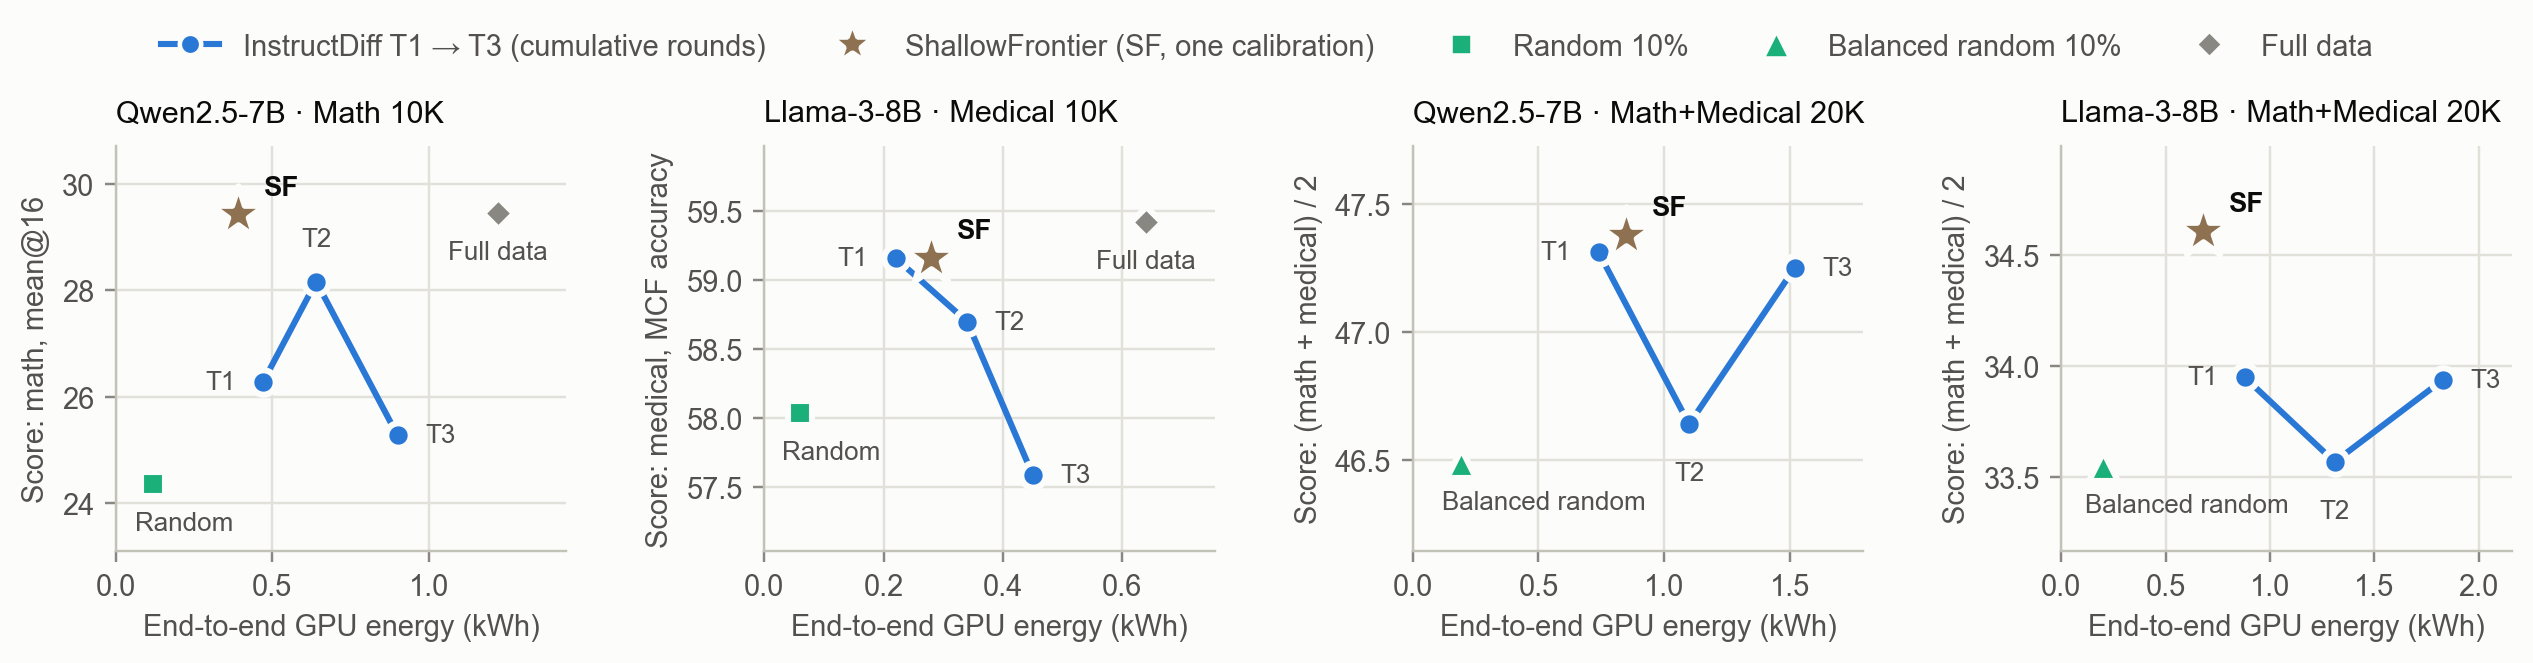
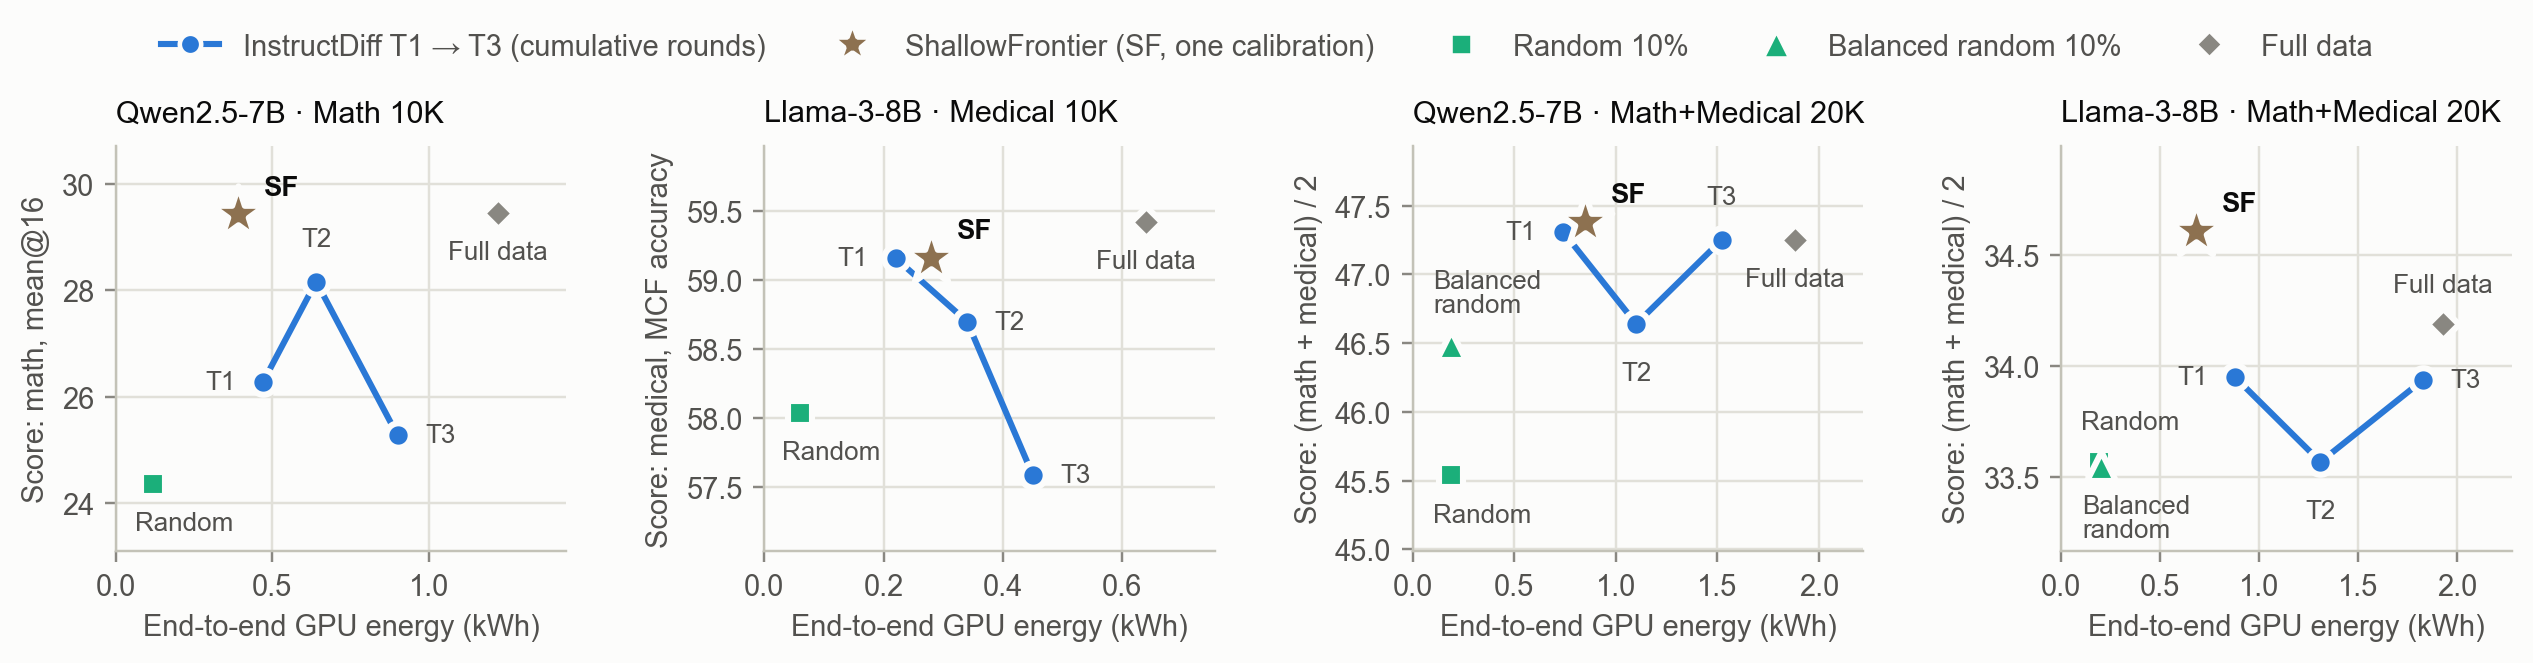
Add full-data and random baselines, 3-seed means
- results/seed42.json: full-data training and uniform random 10% on both mixed pools
- README (EN/KO): those cells and per-benchmark rows, 3-seed means ± std, energy against full-data training
- Figures: full-data and random points in the mixed panels; stage-3 gauge box centred on the flow line

diff --git a/scripts/make_figures.py b/scripts/make_figures.py
@@ -48,11 +48,18 @@ def energy_vs_score(res, out, size=(11.6, 2.9), dpi=220, star=340):   # sized so
         m = tb["methods"]
         rounds = [m["instructdiff_t%d" % r] for r in (1, 2, 3)]
         xs, ys = [r["kwh"] for r in rounds], [r["score"] for r in rounds]
+        full = m.get("full", {}) if m.get("full", {}).get("score") is not None else None
+        shown = ys + [v["score"] for k, v in m.items() if k != "base" and v.get("score") is not None]
+        yr = max(shown) - min(shown)
+        near = full is not None and 0 < full["kwh"] - xs[2] < 0.3 * full["kwh"] and abs(full["score"] - ys[2]) < 0.4 * yr  # full data beside T3
+        level = near and abs(full["score"] - ys[2]) < 0.08 * yr   # ... and at T3's height: T3's label above, full data's below
         ax.plot(xs, ys, color=C_ID, lw=2, solid_capstyle="round", solid_joinstyle="round", zorder=2)
         for r, (x, y) in enumerate(zip(xs, ys), 1):
             _point(ax, x, y, C_ID, "o", 64)
             if r == 1:                                            # labels sit on the side the line does not use
                 at = dict(xytext=(-9, 0), ha="right", va="center")
+            elif r == 3 and level:
+                at = dict(xytext=(0, 10), ha="center", va="bottom")
             elif r == 3:
                 at = dict(xytext=(9, 0), ha="left", va="center")
             elif y > max(ys[0], ys[2]):                           # peak: both lines go down, so the label goes above
@@ -63,15 +70,26 @@ def energy_vs_score(res, out, size=(11.6, 2.9), dpi=220, star=340):   # sized so
                 at = dict(xytext=(9, 0), ha="left", va="center")
             ax.annotate("T%d" % r, (x, y), textcoords="offset points", fontsize=8.5, color=INK2, **at)
         pts = [(x, y) for x, y in zip(xs, ys)]
+        rr = [k for k in ("random", "balanced_random") if m.get(k, {}).get("score") is not None]
         for rk, marker, text, size in (("random", "s", "Random", 60), ("balanced_random", "^", "Balanced random", 90)):
-            if m.get(rk, {}).get("score") is not None:
-                _point(ax, m[rk]["kwh"], m[rk]["score"], C_RAND, marker, size)
-                _label(ax, text, m[rk]["kwh"], m[rk]["score"], ha="left", dx=-6)
-                pts.append((m[rk]["kwh"], m[rk]["score"]))
-        if m.get("full", {}).get("score") is not None:
-            _point(ax, m["full"]["kwh"], m["full"]["score"], C_FULL, "D", 52)
-            _label(ax, "Full data", m["full"]["kwh"], m["full"]["score"])
-            pts.append((m["full"]["kwh"], m["full"]["score"]))
+            if rk in rr:
+                x, y = m[rk]["kwh"], m[rk]["score"]
+                _point(ax, x, y, C_RAND, marker, size)
+                if len(rr) == 2:                        # mixed pools show both randoms, often at one spot: the higher one's
+                    up = y >= m[rr[1 - rr.index(rk)]]["score"]   # label above, the lower one's below, in short lines
+                    ax.annotate(text.replace(" ", "\n"), (x, y), xytext=(-6, 9 if up else -9), textcoords="offset points", ha="left",
+                                va="bottom" if up else "top", fontsize=8.5, color=INK2, linespacing=1.0)
+                else:
+                    _label(ax, text, x, y, ha="left", dx=-6)
+                pts.append((x, y))
+        if full is not None:
+            _point(ax, full["kwh"], full["score"], C_FULL, "D", 52)
+            if near and not level:                                # beside T3, higher or lower: the label goes above, clear of T3's label
+                ax.annotate("Full data", (full["kwh"], full["score"]), xytext=(0, 9), textcoords="offset points", ha="center", va="bottom",
+                            fontsize=8.5, color=INK2)
+            else:
+                _label(ax, "Full data", full["kwh"], full["score"])
+            pts.append((full["kwh"], full["score"]))
         pd = m["shallowfrontier"]
         _point(ax, pd["kwh"], pd["score"], C_PD, "*", star, z=4)
         ax.annotate("SF", (pd["kwh"], pd["score"]), xytext=(0.46 * star ** 0.5, 0.35 * star ** 0.5), textcoords="offset points", fontsize=9, color=INK, fontweight="bold")

diff --git a/README.md b/README.md
@@ -30,8 +30,8 @@
 
 ## News
 
-- **2026-11-11** · Code, testbed configurations and seed-42 results released.
-  Next: 3-seed means ± std for every testbed, and the full-data and random rows of the mixed pools.
+- **2026-11-11** · Code, testbed configurations and results released: seed-42 tables with full-data and random baselines, and 3-seed
+  means ± std for every testbed.
 
 ## Overview
 
@@ -96,6 +96,8 @@ group, and a short calibration run predicts what the full fine-tune needs.
 
 - **53% less end-to-end GPU energy than InstructDiff** (selection + final fine-tuning, measured with NVML, mean of four testbeds:
   0.55 vs 1.17 kWh). InstructDiff's best round is only known after all three rounds, so its cost is the cost of three rounds.
+- **61% less energy than full-data training** (0.55 vs 1.42 kWh), within 0.3 points of it on the single-domain pools and above it on
+  the mixed pools (seed 42).
 - **Label-free and answer-free.** Base-model hidden states of the prompts give the groups; mixed math + medical pools split into
   groups that are 97–99% pure without any domain tag.
 - **Measured, not tuned.** The routing threshold (*B/b = 1*), the silhouette floor (0.25) and the stopping rule come from theory or
@@ -108,8 +110,7 @@ group, and a short calibration run predicts what the full fine-tune needs.
 ## Results
 
 > [!NOTE]
-> Seed 42, the same seed for every method and testbed. 3-seed means ± std and the remaining rows will be added here and in
-> [`results/`](results/) once the runs finish.
+> Main tables: seed 42 for every method and testbed; 3-seed means ± std (seeds 42–44) are below.
 
 Score = math mean@16 for math, multiple-choice (MCF) accuracy for medical, and their mean for mixed pools; E2E kWh = measured GPU
 energy of selection + final fine-tuning. **Bold**: best 10% selection.
@@ -117,8 +118,8 @@ energy of selection + final fine-tuning. **Bold**: best 10% selection.
 | Method | Qwen2.5-7B · Math 10K | kWh | Llama-3-8B · Medical 10K | kWh | Qwen2.5-7B · Mixed 20K | kWh | Llama-3-8B · Mixed 20K | kWh |
 |---|---:|---:|---:|---:|---:|---:|---:|---:|
 | Base model | 12.06 | – | 62.22 | – | 39.15 | – | 32.21 | – |
-| Full data | 29.44 | 1.22 | 59.42 | 0.64 | *pending* | – | *pending* | 1.93 |
-| Random 10% | 24.36 | 0.12 | 58.04 | 0.06 | *pending* | – | *pending* | – |
+| Full data | 29.44 | 1.22 | 59.42 | 0.64 | 47.25 | 1.88 | 34.19 | 1.93 |
+| Random 10% | 24.36 | 0.12 | 58.04 | 0.06 | 45.54 | 0.19 | 33.57 | 0.19 |
 | Balanced random 10% (half per domain) | – | – | – | – | 46.49 | 0.19 | 33.55 | 0.20 |
 | InstructDiff T1 | 26.27 | 0.47 | **59.16** | 0.22 | 47.31 | 0.74 | 33.95 | 0.88 |
 | InstructDiff T2 | 28.16 | 0.64 | 58.70 | 0.34 | 46.64 | 1.10 | 33.57 | 1.31 |
@@ -127,6 +128,21 @@ energy of selection + final fine-tuning. **Bold**: best 10% selection.
 
 - On the medical-only pool ShallowFrontier picks exactly InstructDiff T1's rows (one group, *B/b* > 1), so the scores are equal.
 - On the medical-only pool every fine-tuned model scores below the base model under MCF scoring; selection decides how little is lost.
+
+**3-seed means** (seeds 42–44, mean ± std; **bold**: best 10% selection):
+
+| Method | Qwen2.5-7B · Math 10K | Llama-3-8B · Medical 10K | Qwen2.5-7B · Mixed 20K | Llama-3-8B · Mixed 20K |
+|---|---:|---:|---:|---:|
+| Random 10% | 24.38 ± 0.80 | **58.99 ± 0.83** | – | – |
+| Balanced random 10% (half per domain) | – | – | 46.27 ± 0.44 | 33.85 ± 0.51 |
+| InstructDiff T1 | 26.06 ± 0.28 | 58.58 ± 0.74 | **47.23 ± 0.12** | 33.87 ± 0.08 |
+| InstructDiff T2 | 28.18 ± 0.20 | 58.02 ± 0.60 | 46.07 ± 0.50 | 33.40 ± 0.27 |
+| InstructDiff T3 | 25.31 ± 0.39 | 58.02 ± 0.65 | 47.14 ± 0.11 | 34.05 ± 0.12 |
+| **ShallowFrontier** | **29.13 ± 0.57** | 58.58 ± 0.74 | 47.01 ± 0.32 | **34.15 ± 0.42** |
+
+Against InstructDiff's best round, ShallowFrontier is +0.95 on the math pool and equal on the medical pool (the same rows as T1); on the
+Qwen2.5-7B mixed pool it is 0.22 lower, within seed noise (its seed-to-seed std is 0.32), and on the Llama-3-8B mixed pool +0.10. On the
+medical-only pool random 10% has the highest 3-seed mean.
 
 <p align="center">
   <img src="assets/energy_vs_score.png" alt="Score against end-to-end GPU energy on the four testbeds" width="100%">
@@ -143,6 +159,9 @@ falls to 28.96 (MedQA 35.27, near chance); ShallowFrontier keeps 203 and scores 
 | Balanced random 10% | 33.06 | 0.10 |
 | InstructDiff T1 / T2 / T3 | 33.01 / 33.34 / 28.96 | 0.43 / 0.65 / 0.90 |
 | **ShallowFrontier** | **34.05** | 0.35 |
+
+3-seed means: balanced random 33.41 ± 0.40, InstructDiff T1 / T2 / T3 32.85 ± 0.58 / 33.31 ± 0.47 / 31.20 ± 2.06, ShallowFrontier
+33.81 ± 0.22.
 
 <details>
 <summary><b>Per-benchmark scores (seed 42)</b></summary>
@@ -180,17 +199,21 @@ Generated from `results/seed42.json`. Rows without results yet are omitted.
 | Method | MATH500 | Minerva | OlympiadBench | AIME24 | AMC23 | Math avg | MedQA | MMLU-Med | MedMCQA | Medical avg | Score |
 |---|---:|---:|---:|---:|---:|---:|---:|---:|---:|---:|---:|
 | Base model | 26.66 | 8.43 | 8.04 | 1.24 | 15.94 | 12.06 | 61.98 | 78.02 | 58.71 | 66.24 | 39.15 |
-| Balanced random 10% | 57.00 | 15.48 | 22.19 | **6.66** | 35.16 | 27.30 | 61.19 | **77.25** | **58.62** | **65.69** | 46.49 |
-| InstructDiff T1 | 61.02 | 19.45 | **23.86** | 5.84 | 34.48 | 28.93 | 61.82 | 76.89 | 58.37 | **65.69** | 47.31 |
+| Full data | 60.99 | 20.16 | 23.12 | 6.26 | 32.50 | 28.61 | 61.43 | 77.98 | 58.28 | 65.90 | 47.25 |
+| Random 10% | 55.96 | 13.98 | 20.61 | 4.38 | 31.09 | 25.21 | **62.37** | 76.74 | 58.50 | **65.87** | 45.54 |
+| Balanced random 10% | 57.00 | 15.48 | 22.19 | **6.66** | 35.16 | 27.30 | 61.19 | **77.25** | **58.62** | 65.69 | 46.49 |
+| InstructDiff T1 | 61.02 | 19.45 | **23.86** | 5.84 | 34.48 | 28.93 | 61.82 | 76.89 | 58.37 | 65.69 | 47.31 |
 | InstructDiff T2 | 58.01 | 16.86 | 23.44 | 4.99 | 34.84 | 27.63 | 61.43 | 77.04 | 58.47 | 65.65 | 46.64 |
 | InstructDiff T3 | **61.75** | 18.19 | 23.43 | 5.61 | **37.19** | **29.23** | 60.72 | 77.18 | 57.90 | 65.27 | 47.25 |
-| **ShallowFrontier** | 61.44 | **20.24** | 23.71 | 4.78 | 35.47 | 29.13 | **62.22** | 76.82 | 57.85 | 65.63 | **47.38** |
+| **ShallowFrontier** | 61.44 | **20.24** | 23.71 | 4.78 | 35.47 | 29.13 | 62.22 | 76.82 | 57.85 | 65.63 | **47.38** |
 
 **Llama-3-8B · Math+Medical 20K**
 
 | Method | MATH500 | Minerva | OlympiadBench | AIME24 | AMC23 | Math avg | MedQA | MMLU-Med | MedMCQA | Medical avg | Score |
 |---|---:|---:|---:|---:|---:|---:|---:|---:|---:|---:|---:|
 | Base model | 3.42 | 2.09 | 1.51 | 0.21 | 2.81 | 2.01 | 58.60 | 71.38 | 57.23 | 62.40 | 32.21 |
+| Full data | 22.69 | 8.14 | 5.55 | 0.62 | 6.88 | 8.78 | 55.54 | 69.08 | 54.17 | 59.60 | 34.19 |
+| Random 10% | 17.67 | 6.64 | 3.99 | 0.41 | 6.88 | 7.12 | 55.77 | 68.35 | 55.96 | 60.03 | 33.57 |
 | Balanced random 10% | 18.49 | **6.99** | 4.17 | 0.21 | 5.47 | 7.07 | 56.25 | 69.70 | 54.17 | 60.04 | 33.55 |
 | InstructDiff T1 | 18.96 | 6.42 | **4.79** | 0.21 | **8.28** | 7.73 | 54.36 | 70.32 | 55.85 | 60.17 | 33.95 |
 | InstructDiff T2 | **19.50** | 5.94 | 4.43 | 0.00 | 7.03 | 7.38 | 54.75 | 70.24 | 54.29 | 59.76 | 33.57 |
